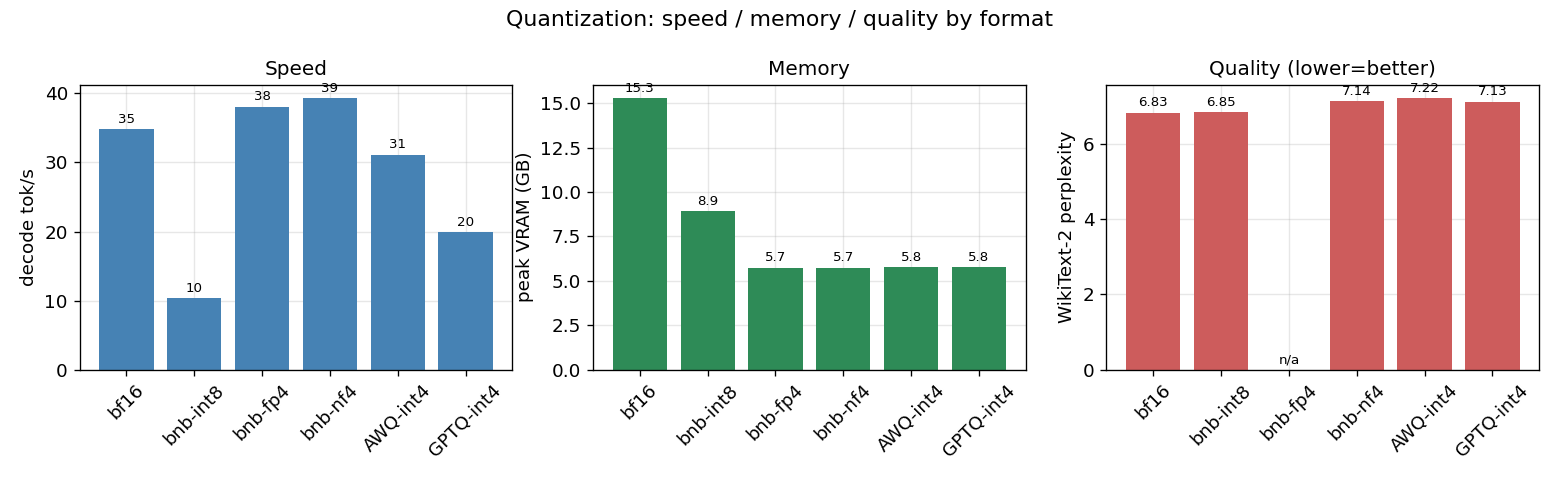
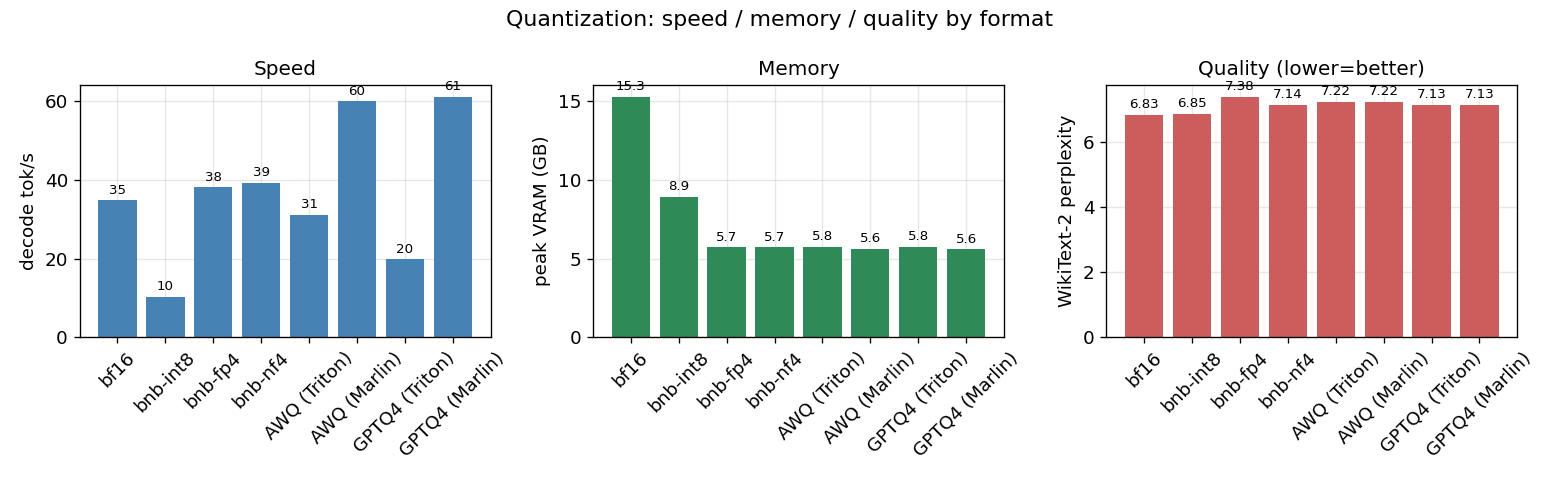
Show Marlin 4-bit in quant/pareto figures + add fp4 quality
The quant.png and pareto.png figures were Triton-only: _quant_rows in
plots.py skipped *_marlin configs, so the headline kernel-dependent
result (4-bit beats bf16 with Marlin) was invisible in the main
quantization figure even though the table and text reported it.

- plots.py: _quant_rows now keeps both Triton and Marlin 4-bit variants
  (QUANT_CONFIGS), labeled per-config. quant.png shows AWQ 31->60 and
  GPTQ4 20->61 at the same VRAM/quality; pareto.png puts the Marlin
  points on the speed/memory frontier (fast AND low-memory).
- Regenerated quant.png/pareto.png for qwen7b and qwen1.5b.
- fp4 quality (7B): ppl 7.38 / MMLU 0.723 / GSM8K 0.710 filled into
  summary_table; previously n/a.

diff --git a/scripts/plots.py b/scripts/plots.py
@@ -23,7 +23,19 @@ import matplotlib.pyplot as plt  # noqa: E402
 from aggregate import load_results, speed_format  # noqa: E402
 from plotstyle import FORMAT_LABEL, label, family_color, annotate_v, annotate_h  # noqa: E402
 
-FORMAT_ORDER = ["none", "int8", "fp4", "nf4", "awq", "gptq-int4", "gptq-int8"]
+# bf16 baseline + each quant format for the format-comparison figures.
+# 4-bit AWQ/GPTQ appear twice — Triton and Marlin kernels — so the figure shows
+# the kernel-dependence of the 4-bit speed-up directly, not just memory savings.
+QUANT_CONFIGS = [
+    ("baseline_cache", "bf16"),
+    ("quant_int8", "bnb-int8"),
+    ("quant_fp4", "bnb-fp4"),
+    ("quant_nf4", "bnb-nf4"),
+    ("quant_awq", "AWQ (Triton)"),
+    ("quant_awq_marlin", "AWQ (Marlin)"),
+    ("quant_gptq-int4", "GPTQ4 (Triton)"),
+    ("quant_gptq-int4_marlin", "GPTQ4 (Marlin)"),
+]
 
 
 def dedupe_latest(speed):
@@ -72,21 +84,26 @@ def fig_methods(rows, out):
 
 
 def _quant_rows(rows):
-    """One row per weight format at batch=1 (bf16 baseline + quant_*)."""
-    seen = {}
-    for x in rows:
-        if x["batch"] != 1 or x["config"].endswith("_marlin"):
-            continue  # Marlin variants compared separately (methods/vs_baseline)
-        if x["config"] == "baseline_cache" or x["config"].startswith("quant_"):
-            seen.setdefault(x["format"], x)
-    return [seen[f] for f in FORMAT_ORDER if f in seen]
+    """bf16 baseline + one row per quant config at batch=1, in QUANT_CONFIGS order.
+
+    Includes both the Triton and the Marlin 4-bit variants so the quant/pareto
+    figures show that the 4-bit speed-up is kernel-dependent (same weights, same
+    memory and quality, very different speed).
+    """
+    by = {x["config"]: x for x in rows if x["batch"] == 1}
+    out = []
+    for cfg, lbl in QUANT_CONFIGS:
+        if cfg in by:
+            r = dict(by[cfg]); r["qlabel"] = lbl
+            out.append(r)
+    return out
 
 
 def fig_quant(rows, out):
     r = _quant_rows(rows)
     if len(r) < 2:
         return None
-    labels = [FORMAT_LABEL.get(x["format"], x["format"]) for x in r]
+    labels = [x["qlabel"] for x in r]
     fig, axes = plt.subplots(1, 3, figsize=(13, 4))
     b0 = axes[0].bar(labels, [x["tps"] or 0 for x in r], color="steelblue")
     annotate_v(axes[0], b0, "{:.0f}")
@@ -145,7 +162,7 @@ def fig_pareto(rows, out):
     if len(have_ppl) >= 2:
         for x in have_ppl:
             axes[0].scatter(x["ppl"], x["tps"])
-            axes[0].annotate(FORMAT_LABEL.get(x["format"], x["format"]), (x["ppl"], x["tps"]),
+            axes[0].annotate(x["qlabel"], (x["ppl"], x["tps"]),
                              textcoords="offset points", xytext=(5, 4), fontsize=8)
         axes[0].set_xlabel("perplexity (lower=better)"); axes[0].set_ylabel("decode tok/s")
         axes[0].set_title("Speed vs quality")
@@ -153,7 +170,7 @@ def fig_pareto(rows, out):
         axes[0].set_visible(False)
     for x in have_vram:
         axes[1].scatter(x["vram"], x["tps"])
-        axes[1].annotate(FORMAT_LABEL.get(x["format"], x["format"]), (x["vram"], x["tps"]),
+        axes[1].annotate(x["qlabel"], (x["vram"], x["tps"]),
                          textcoords="offset points", xytext=(5, 4), fontsize=8)
     axes[1].set_xlabel("peak VRAM (GB)"); axes[1].set_ylabel("decode tok/s")
     axes[1].set_title("Speed vs memory")

diff --git a/WORKLOG.md b/WORKLOG.md
@@ -43,7 +43,12 @@ Baseline(cache/nocache), manual_kv, квант (bnb int8/nf4/fp4 + AWQ/GPTQ-int4
 1. ~~Завершить Marlin~~ — **сделано и закоммичено.**
 2. ~~Почистить `cuda-keyring_*.deb`~~ — **удалён; `*.deb` и `results/*.log` в .gitignore.**
 3. ~~(опц.) EAGLE для спека~~ — **разведка проведена (2026-06-10), решение: НЕ делать живой EAGLE, зафиксировать как вывод.** Готовой текстовой EAGLE-головы под Qwen2.5-7B-Instruct на HF НЕТ: есть только Qwen2 (старая), Qwen2.5-14B, Qwen2.5-VL-7B (vision), Qwen3. Офиц. EAGLE-3 зоопарк (`yuhuili/`) покрывает Vicuna/LLaMA-3.1-8B/LLaMA-3.3-70B/Qwen3, но не Qwen2.5-7B. Сделать живой EAGLE можно только через (а) обучение головы SpecForge — вне объёма (проект про инференс, не тренировку), либо (б) смену таргета на LLaMA-3.1-8B (есть голова) + vLLM — новая модель + др. движок, несравнимо с HF-числами. **Вывод для текста (спек-глава):** на 3090+HF спек draft-моделью не окупается ≤7B (наши замеры); чтобы спек окупился, нужны обученные draft-головы (EAGLE/Medusa) + production-движок (vLLM/SGLang), а под нашу модель публичной головы нет → это естественная граница объёма работы и направление дальнейших исследований.
-4. **ТЕКСТ ДИПЛОМА — главный остаток.** Тема: «Методы оптимизации производительности инференса глубоких нейросетей», магистерский, новизна не нужна, упор на выводы/рекомендации. Дедлайн был 10 июня — пользователь сказал «забудь про дедлайн». Структура: введение / обзор методов (+roofline-постановка) / методика (харнесс, метрики, железо) / результаты (наши таблицы+графики) / выводы + матрица рекомендаций. Писать «под руководством пользователя».
+4. **ТЕКСТ ДИПЛОМА — в работе. НАЧАТ 2026-06-10.** Тема: «Методы оптимизации производительности работы инференса глубоких нейросетевых моделей», магистр (НИТУ МИСИС, каф. АСУ, 09.04.01), новизна не нужна → практич. вклад; дедлайн снят.
+   - **Генерируется из `thesis/build_docx.py`** (python-docx) → `thesis/ВКР.docx` (+ копия `C:\Users\Mikhail\Downloads\ВКР.docx`). Каждый раздел = отдельный блок в генераторе; правка блока не трогает остальное. Пересборка: `.venv/bin/python thesis/build_docx.py`.
+   - **СТРУКТУРА — ПО ГЛАВАМ** (как в утверждённом образце кафедры «Диплом Пономаренко», лежит в Windows-папке ВКР-2026), НЕ по 14-разрядному списку методички. Front-matter (Аннотация/Abstract/Содержание) без номеров; нумеруются главы.
+   - **СТАТУС РАЗДЕЛОВ + ЖУРНАЛ ПРАВОК — в `thesis/STATUS.md`** (карта «раздел → блок генератора → статус»; читать при возобновлении). Готово: Титул(черновик), Аннотация, Abstract, Введение, **Глава 1** (обзор, 1.1–1.5, Табл.1.1), **Глава 2** (объект+постановка+roofline, 2.1–2.6, Табл.2.1), **Глава 3** (методика+реализация, 3.1–3.4, Табл.3.1/3.2), Список источников (21: 11 заруб.+10 отеч., `thesis/sources.md`). ⏳ Осталось: **Глава 4** (результаты — встроить наши графики из `results/*/plots/` + таблицы с числами), Заключение, Приложения, Рисунки 2.1/3.1 (сгенерировать PNG), счётчики `__` в Аннотации/Abstract (в конце).
+   - Оформление (методичка, в `thesis/00_requirements.md`): TNR 14, инт.1,5, абзац 12,5мм, поля Л30/П10/В20/Н20; рисунки «Рисунок N – …» по центру снизу, таблицы «Таблица N – …» слева; ссылки `[N]` по ГОСТ Р 7.0.5-2008. Антиплагиат: писать содержательно/оригинально, БЕЗ трюков обхода ИИ-детектора.
+   - Зависимости для текста: `python-docx`, `pypdf` (доустановлены в venv).
 
 ## Открытые вопросы к пользователю
 - **Формат текста: Word (.docx) или LaTeX?** и **требования вуза** (ГОСТ/шаблон/объём) — НЕ выяснены, нужны до старта текста.
